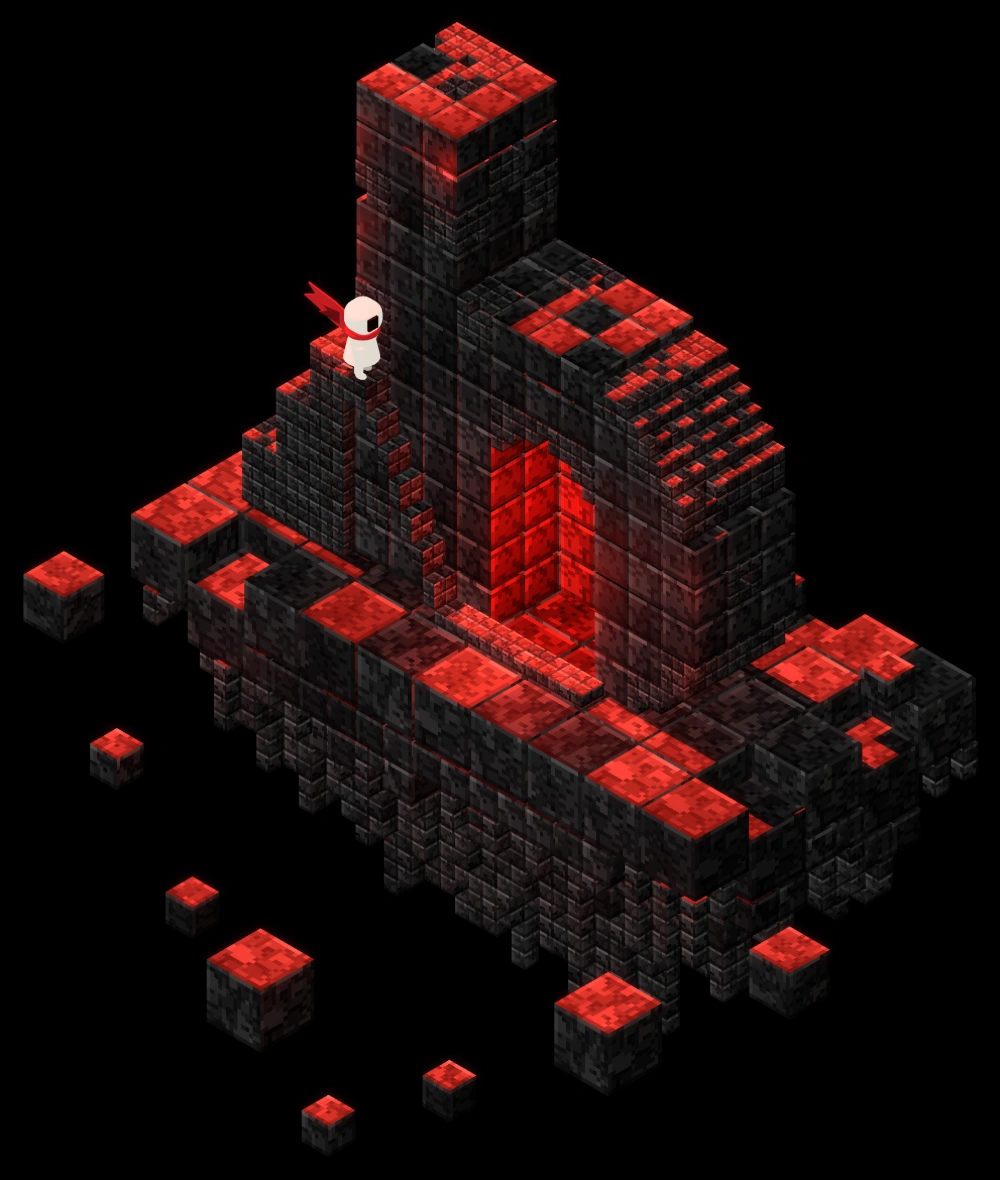
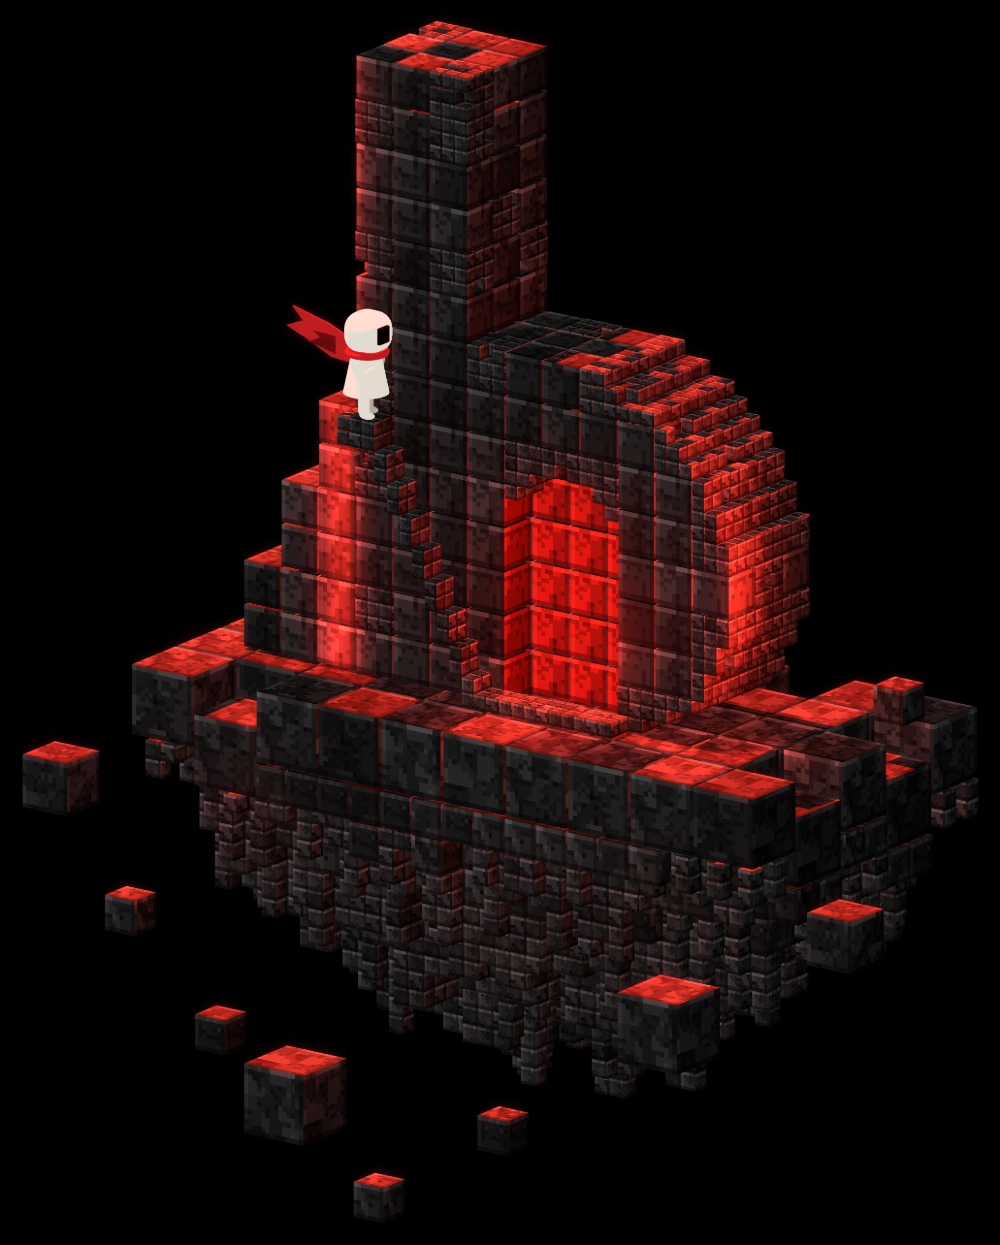
Sculpture: reference camera angle, taller stem, rounder bowl, red edge lights; deeper button red and Inter Tight
- camera moved to the reference's low front-leaning view (36 deg azimuth, 17.5 deg elevation)
- stem taller, bowl rounder, left steps flush with the wall, shallower doorway recess
- thin red area lights along the stem's left edge and the bowl's right end
- primary button #C4161B (hover #D51D22); Inter Tight self-hosted for headline, wordmark and UI

Claude-Session: https://claude.ai/code/session_01QzWKhTYrrY3Jd26DSiS11Q

diff --git a/tools/sculpture3d.js b/tools/sculpture3d.js
@@ -14,6 +14,9 @@
  */
 import * as THREE from 'three';
 import { RoundedBoxGeometry } from 'three/addons/geometries/RoundedBoxGeometry.js';
+import { RectAreaLightUniformsLib } from 'three/addons/lights/RectAreaLightUniformsLib.js';
+
+RectAreaLightUniformsLib.init();
 
 const UNIT_PX = 10.6;          // output pixels per unit
 
@@ -39,12 +42,12 @@ function vnoise(x, y, z, sc, s) {
 
 /* ---------- layout (units) ---------- */
 const G = 3;                                       // finest letter cell; 3x3x3 groups merge into 9-unit cubes
-const DOOR = { x0: 60, x1: 87, zRect: 36, cx: 73.5, r: 13.5, recessY: 9 };   // opening; recess from y=9 to the face at y=27
+const DOOR = { x0: 60, x1: 87, zRect: 36, cx: 73.5, r: 13.5, recessY: 18 };  // opening; recess from y=18 to the face at y=27 (shallow, so the back wall reads wide)
 const BODY_Y1 = 27;
 const JF = BODY_Y1 / G;                            // cells in the depth of the body
-const STEM = { x0: 24, x1: 51, h: 108 };
-const BOWL = { x0: 42, x1: 114, h: 72, rTop: 36, rBot: 24 };
-const LANDING_Z = 45;
+const STEM = { x0: 24, x1: 51, h: 126 };
+const BOWL = { x0: 42, x1: 114, h: 72, rTop: 42, rBot: 30 };
+const LANDING_Z = 54;
 const CELL = 15;                                   // foundation top cube; tiers below are CELL/2 and CELL/4
 const PLAT = { x0: -15, x1: 135, y0: -27, y1: 48 };   // cell boundaries line up with the letter (x) and the stairs' front edge (y = 33)
 const PLAT_CX = 60, PLAT_CY = 10.5, PLAT_AX = 75, PLAT_AY = 37.5;
@@ -76,6 +79,7 @@ const baseFaces = () => ['c0', 'c0', 'c0', 'c0', 'c0', 'c0'];
 const grid = new Map();
 const gk = (i, j, k) => i + ',' + j + ',' + k;
 const has = (i, j, k) => grid.has(gk(i, j, k));
+const kindAt = (i, j, k) => grid.get(gk(i, j, k));
 const cen = (i) => (i + 0.5) * G;
 
 function buildLetter() {
@@ -94,15 +98,15 @@ function buildLetter() {
       }
     }
   }
-  // left block: three big steps (15 high, 9 wide) climbing to the landing
+  // left block: three big steps (18 high, 9 wide: exactly one or two cubes each) climbing to the landing, flush with the wall
   for (let i = -1; i < 8; i++) {
-    const top = 15 * (Math.floor((i + 1) / 3) + 1) / G;
-    for (let k = 0; k < top; k++) for (let j = 0; j < JF + 1; j++) put(i, j, k, 'stair');
+    const top = 18 * (Math.floor((i + 1) / 3) + 1) / G;
+    for (let k = 0; k < top; k++) for (let j = 0; j < JF; j++) put(i, j, k, 'stair');
   }
   // landing ledge the explorer stands on
   for (let i = 8; i < 11; i++) for (let j = JF; j < JF + 2; j++) for (let k = (LANDING_Z - 6) / G; k < LANDING_Z / G; k++) put(i, j, k, 'stair');
   // ribbon of small steps down the wall to the doorway
-  for (let st = 1; st <= 7; st++) {
+  for (let st = 1; st <= 8; st++) {
     const top = LANDING_Z - 6 * st;
     for (let j = JF; j < JF + 2; j++) for (let k = Math.max(0, (top - 6) / G); k < top / G; k++) put(10 + st, j, k, 'stair');
   }
@@ -136,7 +140,9 @@ function emitLetter() {
     for (let a = -1; a <= n; a++) for (let b = -1; b <= n; b++) for (let c = -1; c <= n; c++) if (has(i + a, j + b, k + c) && (a < 0 || b < 0 || c < 0 || a >= n || b >= n || c >= n)) occ++;
     const faceCells = 6 * n * n + 12 * n + 8;
     const ao = 1 - Math.max(0, occ / faceCells - 0.5);
-    blocks.push({ X, Y, Z, s, f, t: (hash3(i, j, k, 303) < 0.3 ? 0.04 : 0.45 + 0.8 * hash3(i, j, k, 300)) * Math.max(0.4, ao) });
+    const shoulder = n === 1 && kindAt(i, j, k) === 'body' && X > BOWL.x1 - BOWL.rTop && Z > BOWL.h - BOWL.rTop - 6;
+    const pDark = shoulder ? 0.4 : kindAt(i, j, k) === 'stair' ? 0 : 0.26;      // step treads are always red-lit
+    blocks.push({ X, Y, Z, s, f, t: (hash3(i, j, k, 303) < pDark ? 0.04 : 0.45 + 0.8 * hash3(i, j, k, 300)) * Math.max(0.4, ao) });
   };
   const M = 3;                                 // merge aligned 3x3x3 cell groups into 9-unit cubes
   for (const [key] of grid) {
@@ -248,7 +254,7 @@ function makeTexture(kind, variant, n) {
   const rnd = (x, y, s) => hash3(x, y, seed, s);
   // Voronoi chips: each texel belongs to its nearest site; each site has its own brightness
   const sites = [];
-  const count = Math.max(4, Math.round(n * n / 9));
+  const count = Math.max(4, Math.round(n * n / 11));
   for (let i = 0; i < count; i++) sites.push({ x: rnd(i, 0, 1) * n, y: rnd(i, 1, 2) * n, v: 0.55 + 0.5 * Math.pow(rnd(i, 2, 3), 1.2) });
   const owner = new Int16Array(n * n);
   for (let y = 0; y < n; y++) for (let x = 0; x < n; x++) {
@@ -261,7 +267,7 @@ function makeTexture(kind, variant, n) {
       const o = owner[y * n + x];
       let f = sites[o].v;
       const edge = (x > 0 && owner[y * n + x - 1] !== o) || (y > 0 && owner[(y - 1) * n + x] !== o);
-      if (edge && rnd(x, y, 4) < 0.55) f *= 0.62;                           // cracks between chips
+      if (edge && rnd(x, y, 4) < 0.45) f *= 0.7;                           // cracks between chips
       if (rnd(x, y, 5) < 0.02) f *= 0.6;                                   // pits
       if (rnd(x, y, 6) < 0.025) f *= 1.25;                                  // chalky flecks
       // bevel: lit top-left edges, shaded bottom-right
@@ -385,14 +391,15 @@ for (const [, list] of groups) {
   tail.lineTo(-8.8, 0.2); tail.lineTo(-4.4, -2.2); tail.lineTo(0, -2.8); tail.closePath();
   add(new THREE.ExtrudeGeometry(tail, { depth: 0.45, bevelEnabled: false }), red, -1.2, 10.5, -0.2, 0, 0.15, 0);
   add(new THREE.ExtrudeGeometry(tail, { depth: 0.3, bevelEnabled: false }), redDark, -1.0, 9.9, -0.9, 0, 0.35, 0.05).scale.set(0.7, 0.6, 1);
+  g.scale.setScalar(1.3);
   g.position.set(28.5, LANDING_Z, 30);
   scene.add(g);
 })();
 
 /* ---------- lights: red is the main light; the white fill is almost nothing ---------- */
-scene.add(new THREE.AmbientLight(0xffffff, 0.1));
+scene.add(new THREE.AmbientLight(0xffffff, 0.075));
 scene.add(new THREE.HemisphereLight(0xb8b4c0, 0x120c0c, 0.1));
-const fill = new THREE.DirectionalLight(0xc8ccd8, 0.32);              // keeps the left faces a touch lighter than the right
+const fill = new THREE.DirectionalLight(0xc8ccd8, 0.26);              // keeps the left faces a touch lighter than the right
 fill.position.set(-80, 70, 160);
 scene.add(fill);
 
@@ -409,8 +416,8 @@ const rim = new THREE.DirectionalLight(0xff1a10, 0);                // grazing r
 rim.position.set(-160, 40, 110);
 scene.add(rim);
 
-const doorInner = new THREE.PointLight(0xff2a1e, 900, 70, 2);         // glow inside the recess
-doorInner.position.set(DOOR.cx, 22, 18);
+const doorInner = new THREE.PointLight(0xff2a1e, 420, 70, 2);         // glow inside the recess
+doorInner.position.set(DOOR.cx, 34, 30);
 const doorMouth = new THREE.PointLight(0xff2418, 1200, 60, 2);        // spill onto floor, steps and wall
 doorMouth.position.set(DOOR.cx, 14, 36);
 scene.add(doorInner, doorMouth);
@@ -421,9 +428,16 @@ const edgeLight = (X, Y, Z, intensity, dist) => {
   l.position.set(X, Z, Y);                                            // scene (X, Y, Z) -> three (x, z, y)
   edgeLights.push(l); scene.add(l);
 };
-for (const z of [92, 70, 48]) edgeLight(19, 31, z, 150, 26);          // left edge of the stem
-for (const z of [60, 36, 14]) edgeLight(117, 34, z, 130, 26);         // right end of the bowl
-edgeLight(48, 30, 100, 90, 22);
+// thin vertical area lights hugging the edges: a continuous red band along the first column of blocks
+const stripLight = (X, Y, Z, w, h, face, intensity) => {                  // scene coords; face: 'front' (+Y) or 'right' (+X)
+  const l = new THREE.RectAreaLight(0xff2418, intensity, w, h);
+  l.position.set(X, Z, Y);
+  l.lookAt(face === 'front' ? X : X - 1, Z, face === 'front' ? Y - 1 : Y);   // RectAreaLight emits away from the lookAt target
+  scene.add(l);
+};
+stripLight(20, 29, 63, 4, 126, 'front', 8);                                // left edge of the stem and the left block
+stripLight(118, 29, 36, 4, 72, 'front', 8);                                // front edge at the right end of the bowl
+stripLight(119, 24, 36, 6, 72, 'right', 8);                                // right end face, along its front edge
 edgeLight(58, 74, -52, 140, 70);                                      // low red glow under the island: the stalactite tips catch it
 edgeLight(112, 62, -36, 90, 55);
 edgeLight(6, 62, -30, 80, 50);                                       // top front corner of the stem
@@ -433,7 +447,10 @@ const bbox = new THREE.Box3();
 blocks.forEach((b) => bbox.expandByPoint(new THREE.Vector3(b.X, b.Z, b.Y)));
 const centre = bbox.getCenter(new THREE.Vector3());
 const camera = new THREE.OrthographicCamera(-1, 1, 1, -1, 1, 2000);
-camera.position.copy(centre).add(new THREE.Vector3(1, 1, 1).normalize().multiplyScalar(700));
+// The reference is a low, front-leaning view (not true isometric): about 17.5 deg elevation, 36 deg azimuth.
+// That makes the front face large and the tops thin slivers.
+const AZ = 36 * Math.PI / 180, EL = 17.5 * Math.PI / 180;
+camera.position.copy(centre).add(new THREE.Vector3(Math.sin(AZ) * Math.cos(EL), Math.sin(EL), Math.cos(AZ) * Math.cos(EL)).multiplyScalar(700));
 camera.lookAt(centre);
 camera.updateMatrixWorld(true);
 let minX = 1e9, maxX = -1e9, minY = 1e9, maxY = -1e9;

diff --git a/css/styles.css b/css/styles.css
@@ -1,17 +1,26 @@
 /* Blitzedo home. Tokens follow DESIGN.md's provisional palette. */
+/* Inter Tight (SIL OFL, self-hosted): a tighter cut of Inter that suits the large, tightly composed headline. */
+@font-face {
+  font-family: "Inter Tight";
+  src: url("../assets/fonts/inter-tight-latin-wght-normal.woff2") format("woff2");
+  font-weight: 100 900;
+  font-style: normal;
+  font-display: swap;
+}
+
 :root {
   --bg: #090A08;
   --charcoal: #20211F;
   --ivory: #F4F0E6;
   --ivory-muted: rgba(244, 240, 230, 0.72);
   --rule: rgba(244, 240, 230, 0.14);
-  --red: #D51D22;
-  --red-hover: #E8272C;
-  --red-press: #BF171C;
+  --red: #C4161B;          /* a touch deeper than the documented #D51D22 for the primary action */
+  --red-hover: #D51D22;
+  --red-press: #A91216;
 
   --gutter: clamp(20px, 4.05vw, 72px);
   --header-h: clamp(64px, 5.45vw, 96px);
-  --font: "Inter Display", "Inter", "Helvetica Neue", Helvetica, Arial, system-ui, sans-serif;
+  --font: "Inter Tight", "Inter", "Helvetica Neue", Helvetica, Arial, system-ui, sans-serif;
 }
 
 *, *::before, *::after { box-sizing: border-box; }
@@ -134,10 +143,10 @@ a { color: inherit; text-decoration: none; }
 
 .hero__title {
   margin: 0;
-  font-weight: 800;
-  font-size: clamp(76px, 13.6vw, 250px);
-  line-height: 0.76;
-  letter-spacing: -0.037em;
+  font-weight: 700;
+  font-size: clamp(80px, 14.6vw, 268px);
+  line-height: 0.84;
+  letter-spacing: -0.045em;
   margin-left: calc(0.75vw - 0.045em);
   white-space: nowrap;
 }
@@ -147,7 +156,7 @@ a { color: inherit; text-decoration: none; }
   align-items: center;
   justify-content: space-between;
   gap: clamp(40px, 4.8vw, 84px);
-  margin-top: clamp(24px, 2.6vw, 44px);
+  margin-top: clamp(36px, 4.2vw, 72px);
   margin-left: 0.75vw;
   min-width: clamp(240px, 24vw, 420px);
   min-height: clamp(56px, 4.5vw, 78px);
@@ -156,8 +165,8 @@ a { color: inherit; text-decoration: none; }
   color: var(--ivory);
   border-radius: 3px;
   font-size: clamp(19px, 2vw, 34px);
-  font-weight: 500;
-  letter-spacing: -0.015em;
+  font-weight: 600;
+  letter-spacing: -0.01em;
   transition: background-color 0.2s ease, box-shadow 0.2s ease;
 }
 .btn .icon { width: 1.05em; height: auto; transition: transform 0.24s ease; }

diff --git a/index.html b/index.html
@@ -46,9 +46,9 @@
       <figure class="hero__art">
         <img class="hero__sculpture"
           src="assets/sculpture.webp"
-          srcset="assets/sculpture-1000.webp 1000w, assets/sculpture.webp 1983w"
+          srcset="assets/sculpture-1000.webp 1000w, assets/sculpture.webp 2063w"
           sizes="(max-width: 900px) 100vw, 46vw"
-          width="1983" height="2340"
+          width="2063" height="2569"
           alt="A lowercase b built from small charcoal blocks, floating on a rocky island. A stairway climbs to a tiny ivory explorer in a red scarf, and a red doorway glows in the bowl."
           fetchpriority="high" decoding="async">
       </figure>

diff --git a/README.md b/README.md
@@ -14,8 +14,8 @@ Current phase: design documentation and reference artwork, plus the Home page. O
 
 Open `index.html` in a browser (no build step needed).
 
-- `css/styles.css` holds the layout, tokens (`:root`) and responsive rules. The primary action uses the documented red `#D51D22`.
+- `css/styles.css` holds the layout, tokens (`:root`) and responsive rules. The primary action uses `#C4161B`, a touch deeper than the documented `#D51D22` (hover brings it back to `#D51D22`). Type is Inter Tight (SIL OFL), self-hosted in `assets/fonts/`.
 - `assets/sculpture.webp` (and a 1000px variant) is the voxel b sculpture, with its explorer, red doorway lighting and floating foundation.
-- The sculpture is generated, not hand-drawn: `tools/sculpture3d.js` builds it from large charcoal stone cubes in three.js (9-unit cubes for the letter, 3-unit blocks at curves, steps and the arch, 15 / 7.5 / 3.75-unit cubes for the bowl-shaped foundation) with chunky chipped-stone pixel textures. No block is painted red: the red comes from a strong red key light that makes tops and edges glow and casts shadows, red lights in the doorway, and a near-black fill. A red-only glow is added in a 2D pass. Re-render it with `cd tools && npm install && cd .. && node tools/build-sculpture.js` (set `CHROMIUM_PATH` to use an installed Chromium; WebGL runs on the software renderer). If the output size changes, update the `width`/`height` on the `<img>` in `index.html`.
+- The sculpture is generated, not hand-drawn: `tools/sculpture3d.js` builds it from large charcoal stone cubes in three.js (9-unit cubes for the letter, seen from the reference's low front-leaning camera, 3-unit blocks at curves, steps and the arch, 15 / 7.5 / 3.75-unit cubes for the bowl-shaped foundation) with chunky chipped-stone pixel textures. No block is painted red: the red comes from a strong red key light that makes tops and edges glow and casts shadows, red lights in the doorway, and a near-black fill. A red-only glow is added in a 2D pass. Re-render it with `cd tools && npm install && cd .. && node tools/build-sculpture.js` (set `CHROMIUM_PATH` to use an installed Chromium; WebGL runs on the software renderer). If the output size changes, update the `width`/`height` on the `<img>` in `index.html`.
 - The artwork is rendered on pure black and shown with `mix-blend-mode: screen`, so it blends into the page background.
 - Links to `games.html`, `studio.html` and `contact.html` are placeholders until those pages exist.

diff --git a/design/ITERATION.md b/design/ITERATION.md
@@ -36,5 +36,6 @@ Use [DESIGN.md](../DESIGN.md) as the current source of design decisions. Add rev
 | 2026-10-15 | Rebuild the sculpture in three.js with real cubes (big foundation blocks, pixel-art textures, shadow-casting lights, doorway light) closer to the reference. | Superseded by the next row |
 | 2026-10-15 | Sculpture blocks are all charcoal stone; red comes from light, not red blocks. Larger cubes (9-unit letter, 12-unit foundation) with chunky chipped-stone textures. | Implemented, awaiting user review |
 | 2026-10-15 | Foundation remade as a bowl: regular grid of 15-unit rim cubes (some near-black so tops alternate red / black), 7.5 and 3.75-unit tiers stepping down a smooth bowl profile; chibi explorer; calmer glow. | Implemented, awaiting user review |
+| 2026-10-15 | b silhouette reworked (taller stem, rounder bowl, low front-leaning camera like the reference, steps flush with the wall, red edge light strips); primary button `#C4161B`; type switched to self-hosted Inter Tight. | Implemented, awaiting user review |
 
 For each later review, record the exact file, decision, and approval status. Do not mark proposals approved without a user decision.
